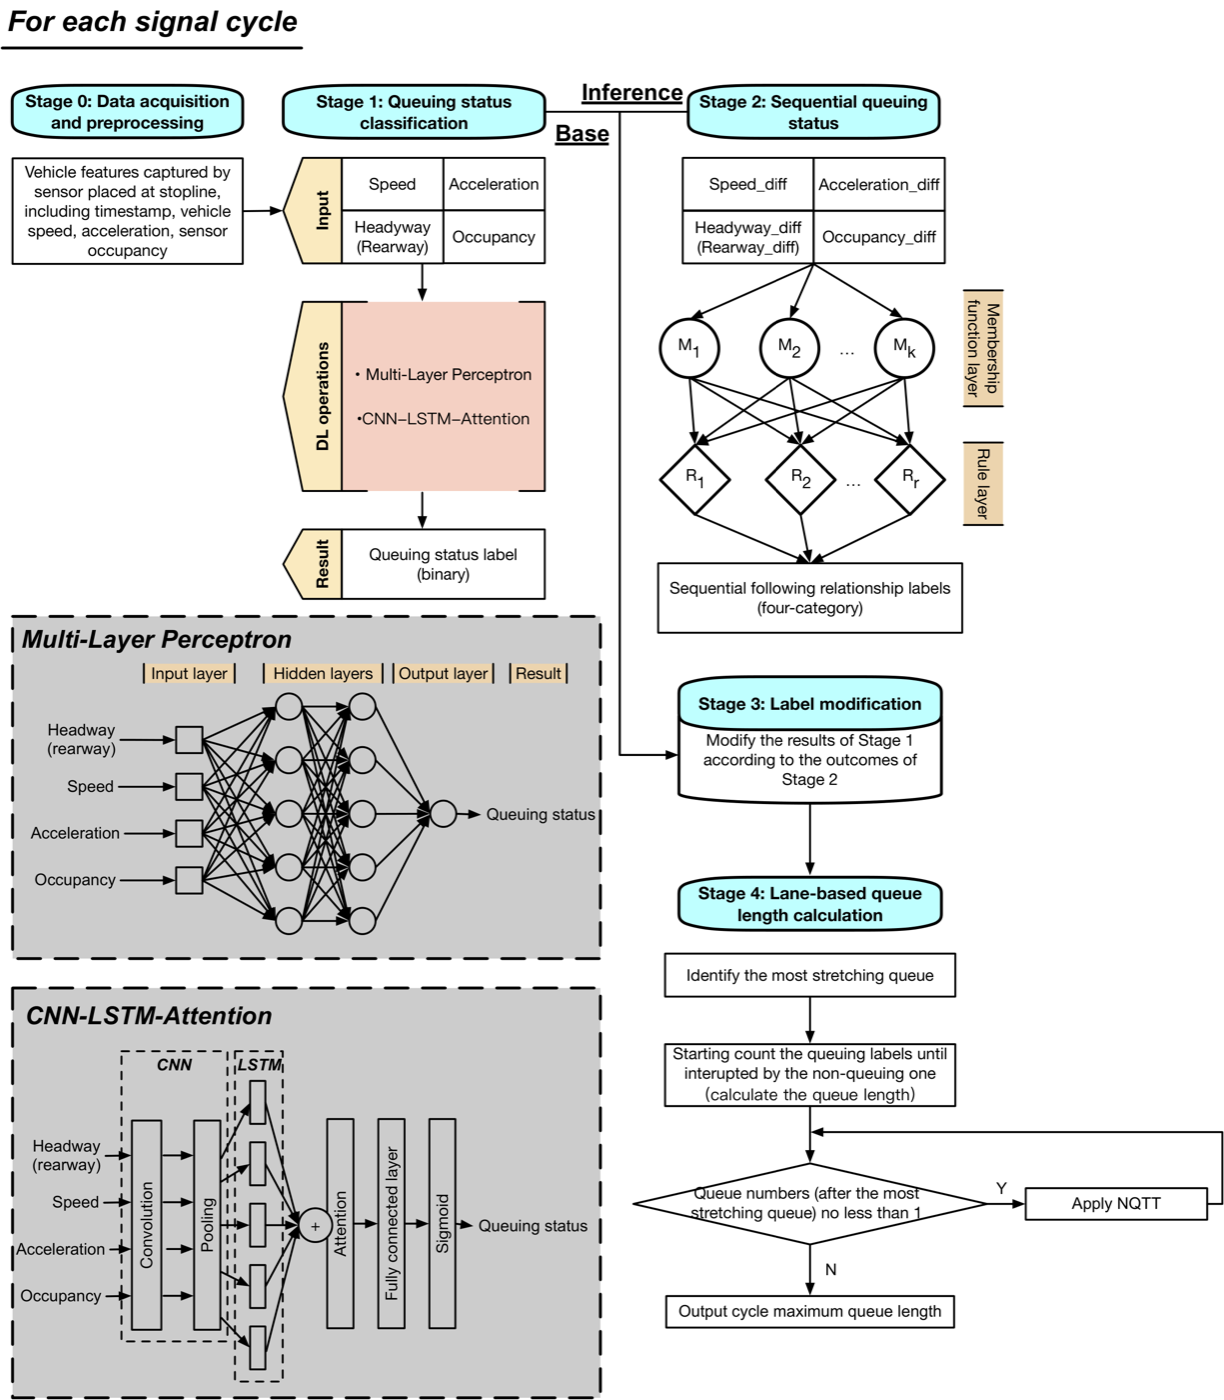
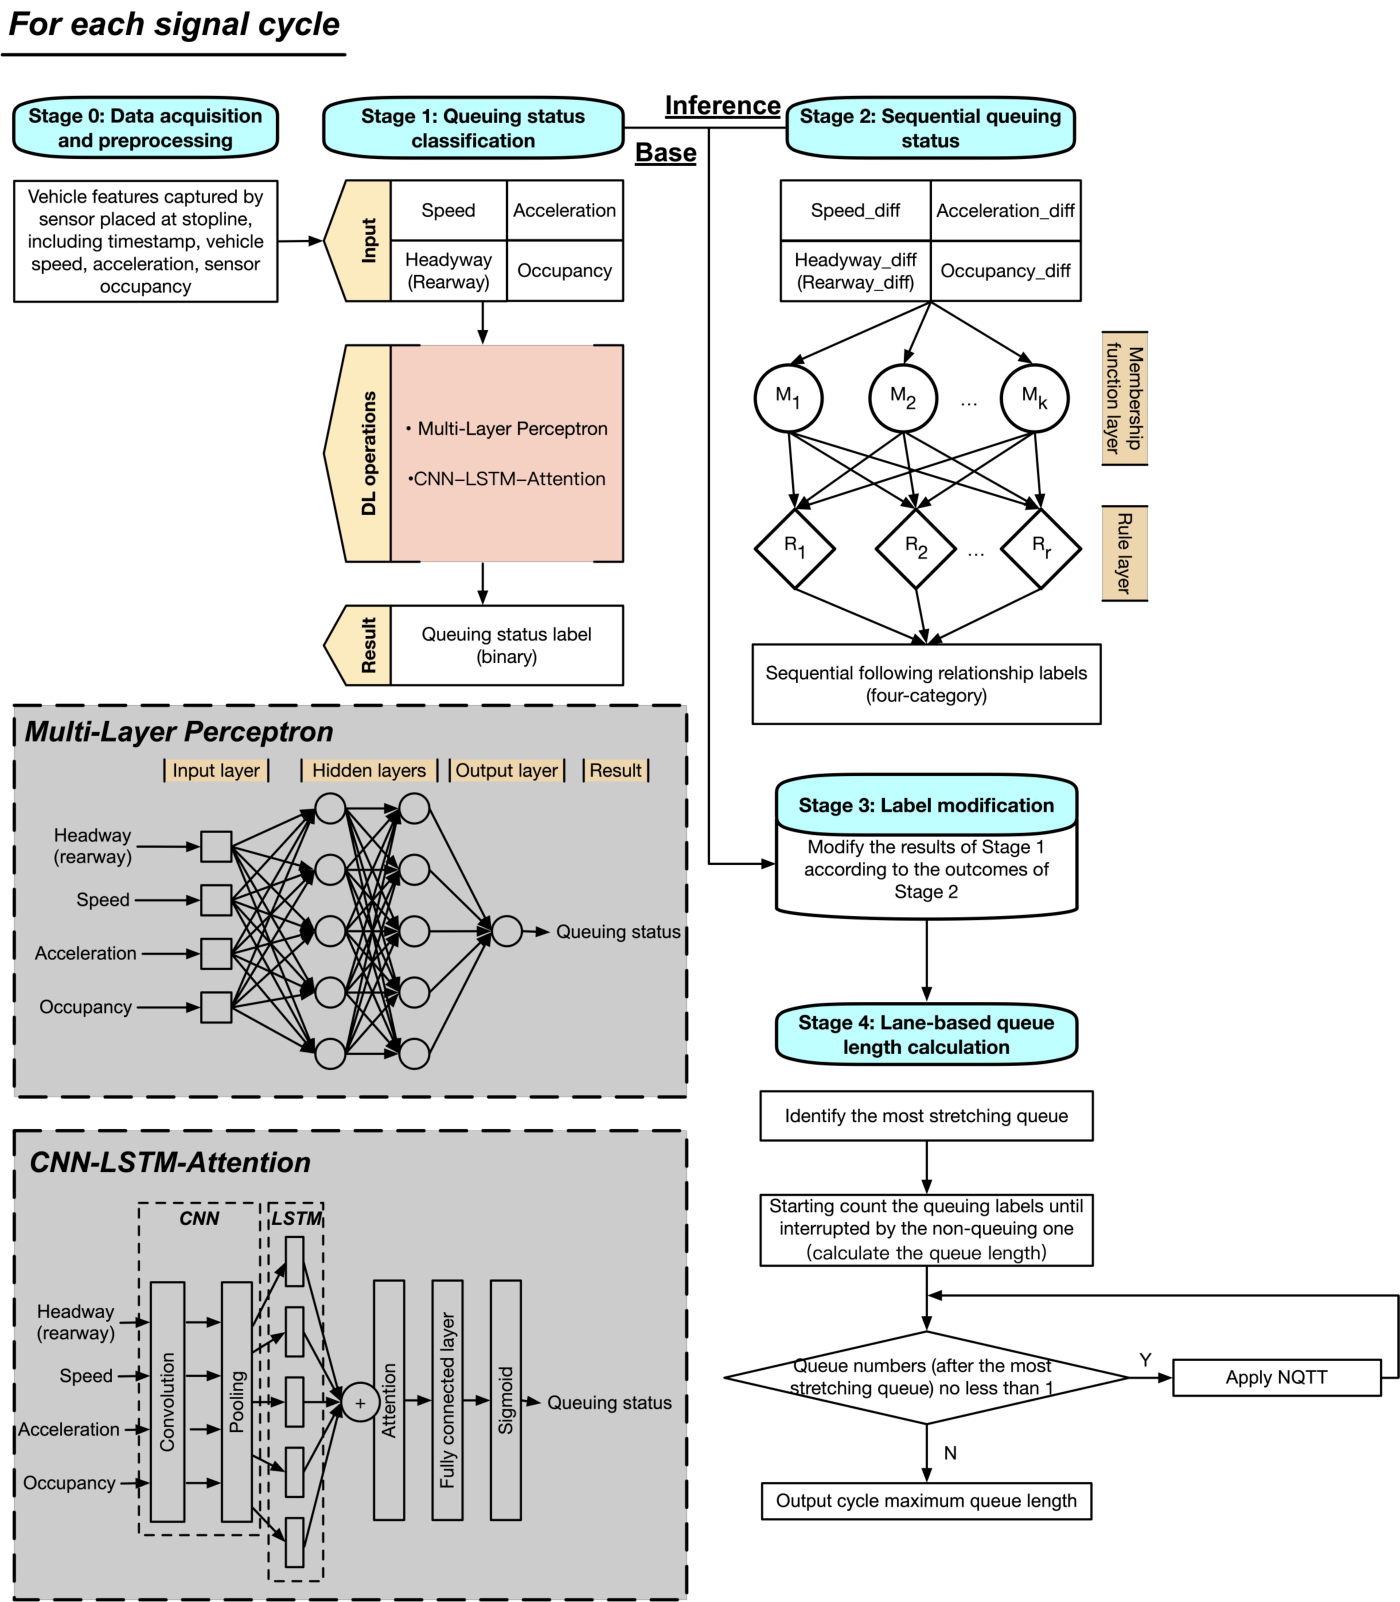
Update research figures: QASTO framework (renamed from QISTO) + journal-version queue-estimation framework

diff --git a/index.html b/index.html
@@ -283,14 +283,14 @@ footer .wrap{display:flex;justify-content:space-between;flex-wrap:wrap;gap:14px}
         <p>Optimizing operational decisions under hard constraints. My flagship Queue-Aware Signal Timing Optimization (QASTO) method re-optimizes an operational control plan cycle after cycle from live queue information — reducing average delay by <b>72%</b> versus a throughput-optimal baseline while matching its throughput within <b>3.1%</b>, and pruning <b>62%</b> of the candidate solution space.</p>
         <p class="review-note">First-author manuscript under review · Transportation Research Part B: Methodological</p>
         <span class="chip">Constrained optimization</span><span class="chip">Search-space pruning</span><span class="chip">Metaheuristics</span>
-        <div class="fig"><a href="assets/research/qisto-framework.png" target="_blank" rel="noopener" aria-label="View full-size QASTO framework figure"><img src="assets/research/qisto-framework.png" alt="The QASTO framework: queue-informed feasible-space reduction for corridor signal-timing optimization" width="1400" height="1513" loading="lazy" /></a></div>
+        <div class="fig"><a href="assets/research/qasto-framework.png" target="_blank" rel="noopener" aria-label="View full-size QASTO framework figure"><img src="assets/research/qasto-framework.png" alt="The QASTO framework: queue-aware feasible-space reduction for corridor signal-timing optimization" width="1400" height="1513" loading="lazy" /></a></div>
       </div>
       <div class="card reveal">
         <div class="ico"><svg viewBox="0 0 24 24" fill="none" stroke="currentColor" stroke-width="2" aria-hidden="true"><circle cx="12" cy="12" r="3"/><path d="M12 2v3m0 14v3M2 12h3m14 0h3M5 5l2 2m10 10l2 2M5 19l2-2m10-10l2-2"/></svg></div>
         <h3>Machine Learning &amp; Estimation</h3>
         <p>Building and benchmarking estimation models on real-world data. A deep-learning + neuro-fuzzy (ANFIS) framework in <b>TensorFlow/Keras</b> estimated cycle-by-cycle queue lengths to <b>1.65–9.25% MAPE</b>, with a compact MLP outperforming a heavier CNN-LSTM-attention benchmark (<i>IEEE Access</i>, 2024).</p>
         <span class="chip">Deep learning</span><span class="chip">Estimation</span><span class="chip">ANFIS</span>
-        <div class="fig"><a href="assets/research/queue-estimation.png" target="_blank" rel="noopener" aria-label="View full-size framework figure"><img src="assets/research/queue-estimation.png" alt="Framework of the integrated deep-learning and ANFIS cycle queue-length estimation method" width="1224" height="1400" loading="lazy" /></a></div>
+        <div class="fig"><a href="assets/research/queue-estimation.png" target="_blank" rel="noopener" aria-label="View full-size framework figure"><img src="assets/research/queue-estimation.png" alt="Framework of the integrated deep-learning and ANFIS cycle queue-length estimation method" width="1400" height="1602" loading="lazy" /></a></div>
       </div>
       <div class="card reveal">
         <div class="ico"><svg viewBox="0 0 24 24" fill="none" stroke="currentColor" stroke-width="2" aria-hidden="true"><path d="M3 12h4l2 6 4-14 2 8h6"/></svg></div>